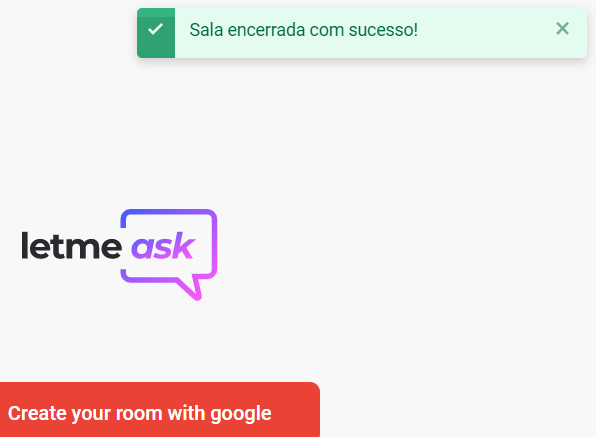
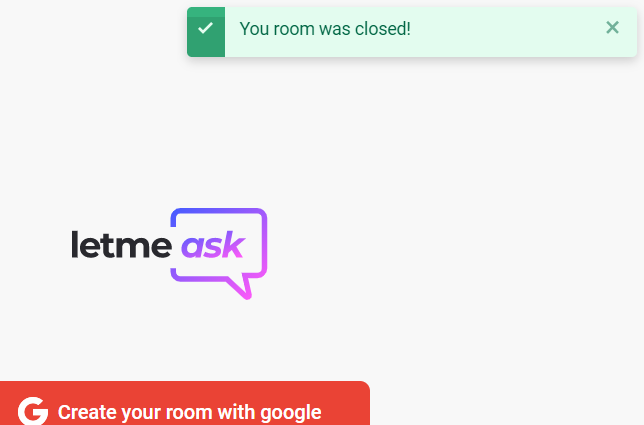
README.md fixes

diff --git a/src/pages/Room/components/RoomHeader.tsx b/src/pages/Room/components/RoomHeader.tsx
@@ -32,7 +32,7 @@ export function RoomHeader({ roomId, isAdmin }: RoomHeaderProps): JSX.Element {
         })
 
         history.push('/')
-        addToast('Sala encerrada com sucesso!', {
+        addToast('You room was closed!', {
           appearance: 'success',
           autoDismiss: true
         })

diff --git a/README.md b/README.md
@@ -25,8 +25,9 @@
 
 # Try it
 
-letmeask is hosted on firebase. You can play arround in:
-<a href="https://letmeask-86e5c.web.app/" target="_blank">letmeask firebase app</a>.
+letmeask is hosted on firebase. You can play arround in here:
+
+## [Live demo](https://letmeask-86e5c.web.app/)
 
 <hr />
 
